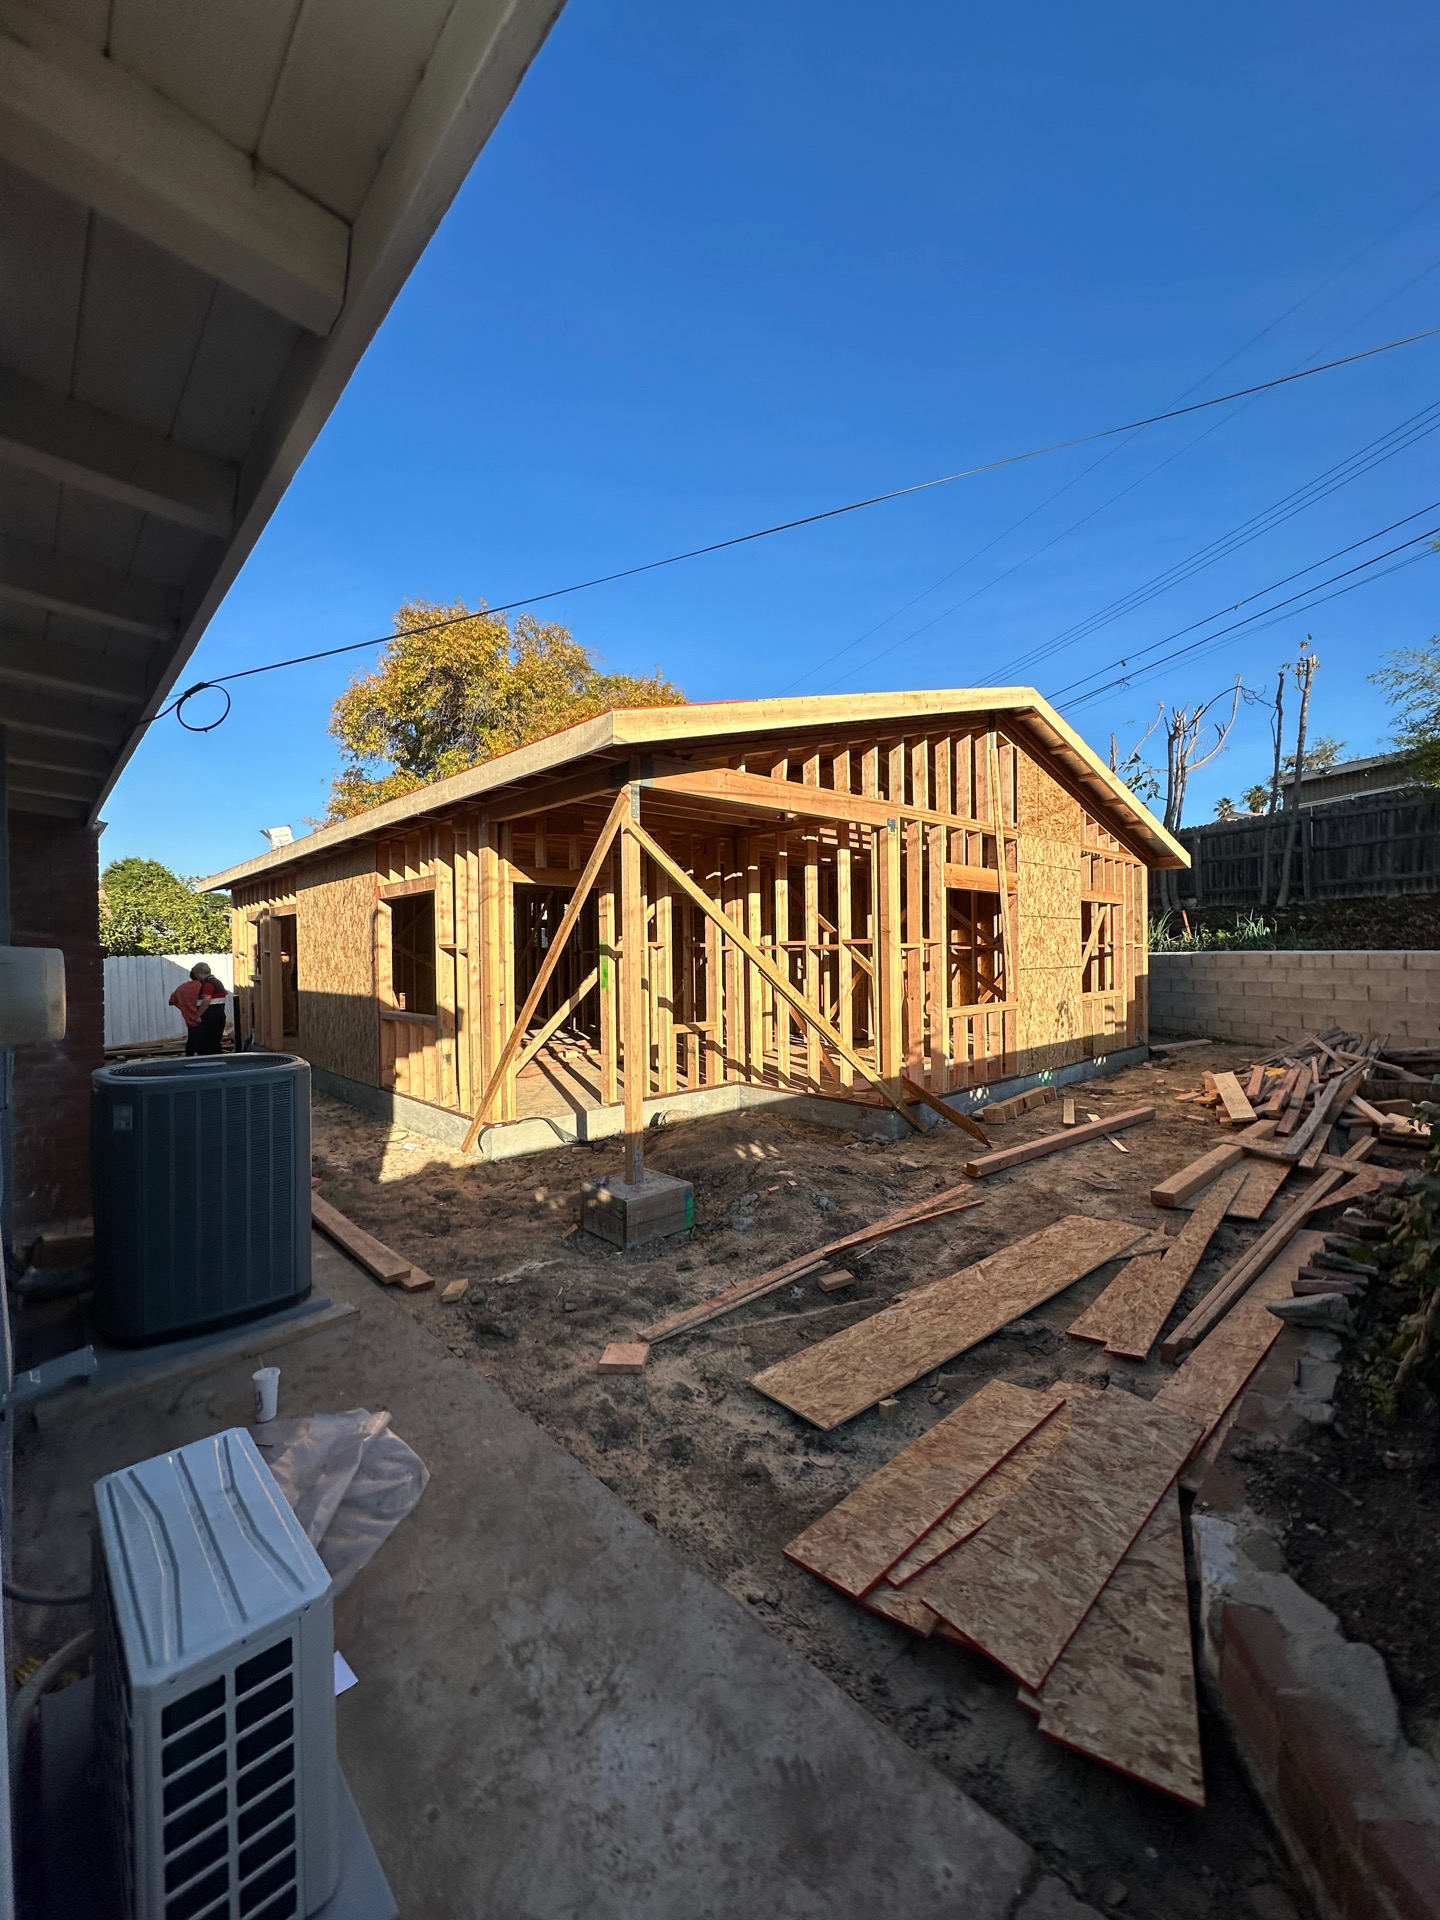
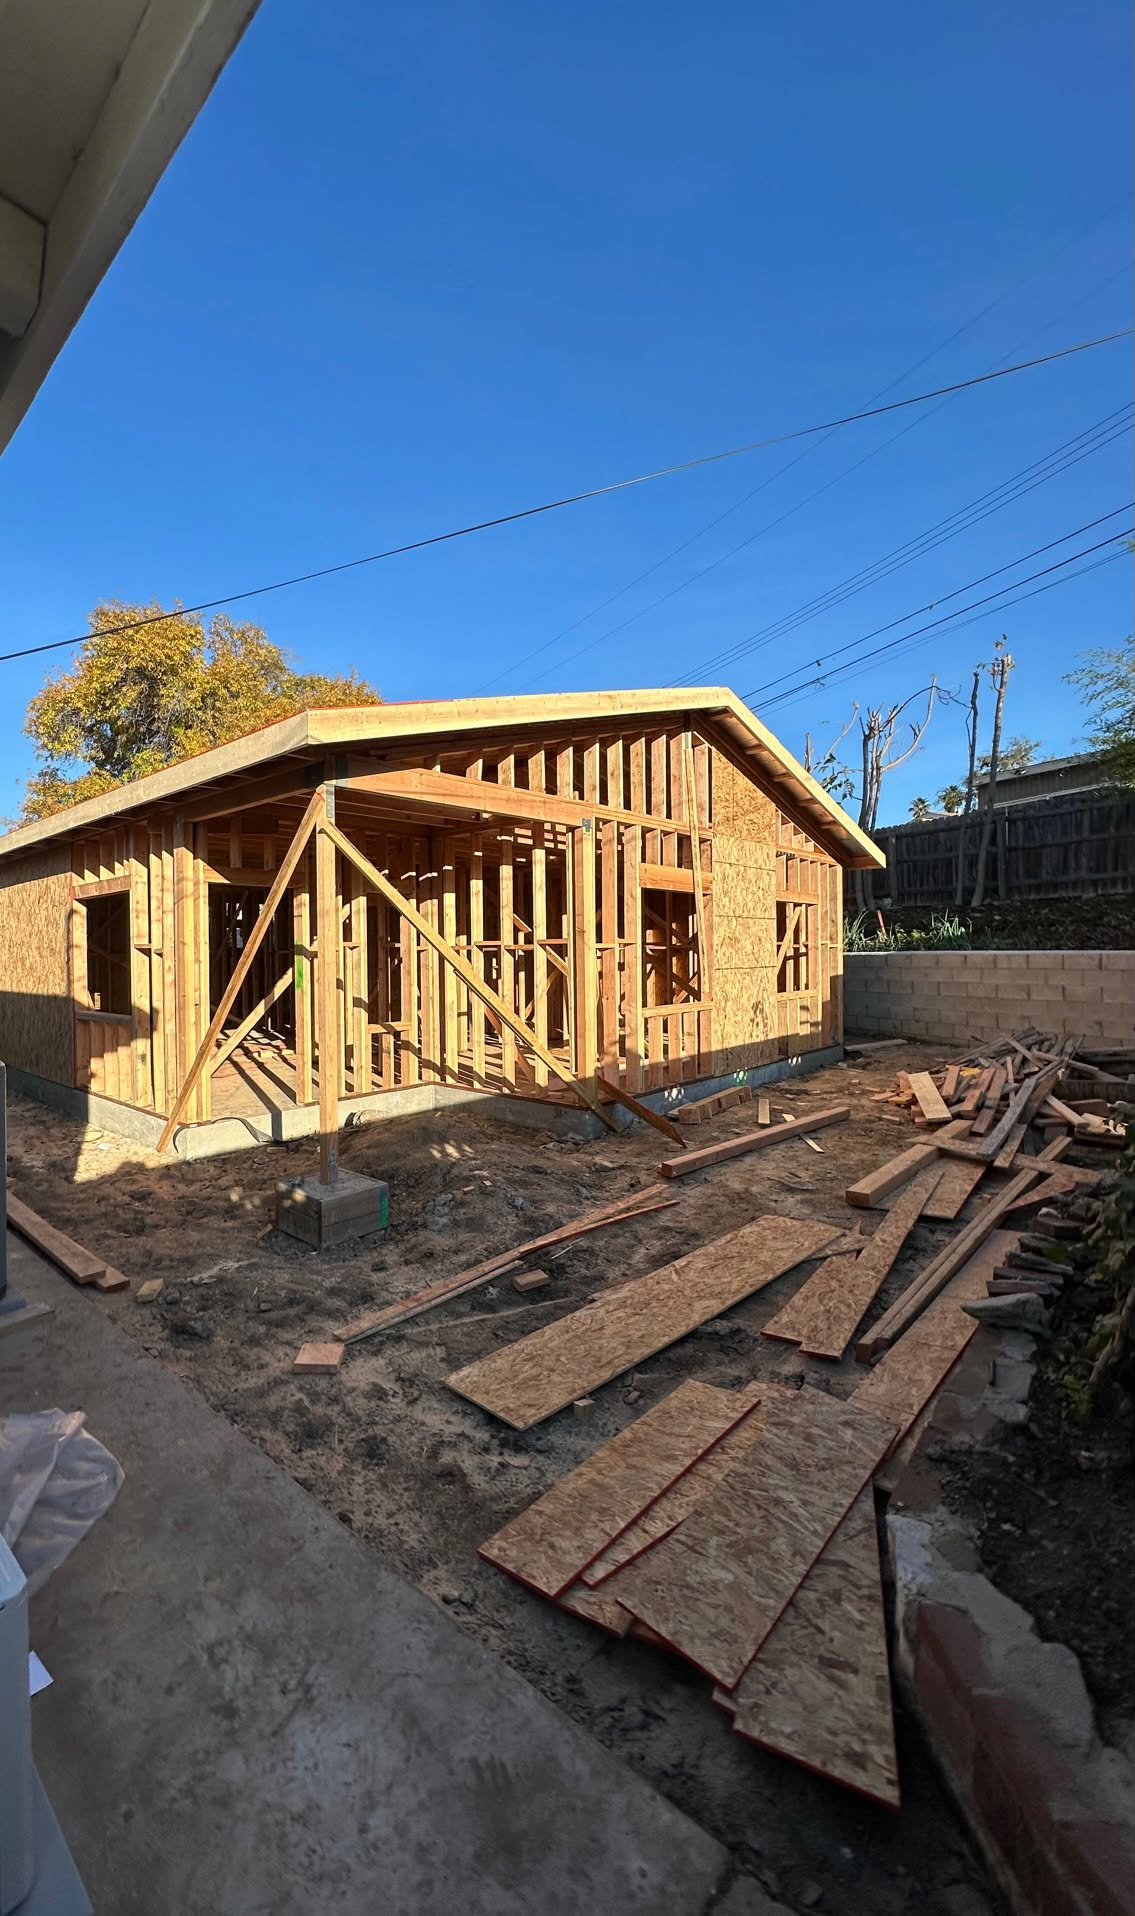
Update before picture in slider with new framing photo and adjust mobile positioning

diff --git a/script.js b/script.js
@@ -50,14 +50,14 @@ if (baSlider) {
   baSlider.addEventListener('touchmove', (e) => { if (dragging) setSlider(e.touches[0].clientX); }, { passive: true });
   baSlider.addEventListener('touchend', () => dragging = false);
 
-  // gentle auto-demo on load: slide to 60% then settle back to 40% (better for mobile)
+  // gentle auto-demo on load: slide to 55% then settle back to 35% (more before showing on mobile)
   if (!window.matchMedia('(prefers-reduced-motion: reduce)').matches) {
     setTimeout(() => {
       baBefore.style.transition = 'width 1.1s ease-in-out';
       baHandle.style.transition = 'left 1.1s ease-in-out';
-      setSlider(baSlider.getBoundingClientRect().left + baSlider.getBoundingClientRect().width * 0.60);
+      setSlider(baSlider.getBoundingClientRect().left + baSlider.getBoundingClientRect().width * 0.55);
       setTimeout(() => {
-        setSlider(baSlider.getBoundingClientRect().left + baSlider.getBoundingClientRect().width * 0.40);
+        setSlider(baSlider.getBoundingClientRect().left + baSlider.getBoundingClientRect().width * 0.35);
         setTimeout(() => {
           baBefore.style.transition = '';
           baHandle.style.transition = '';